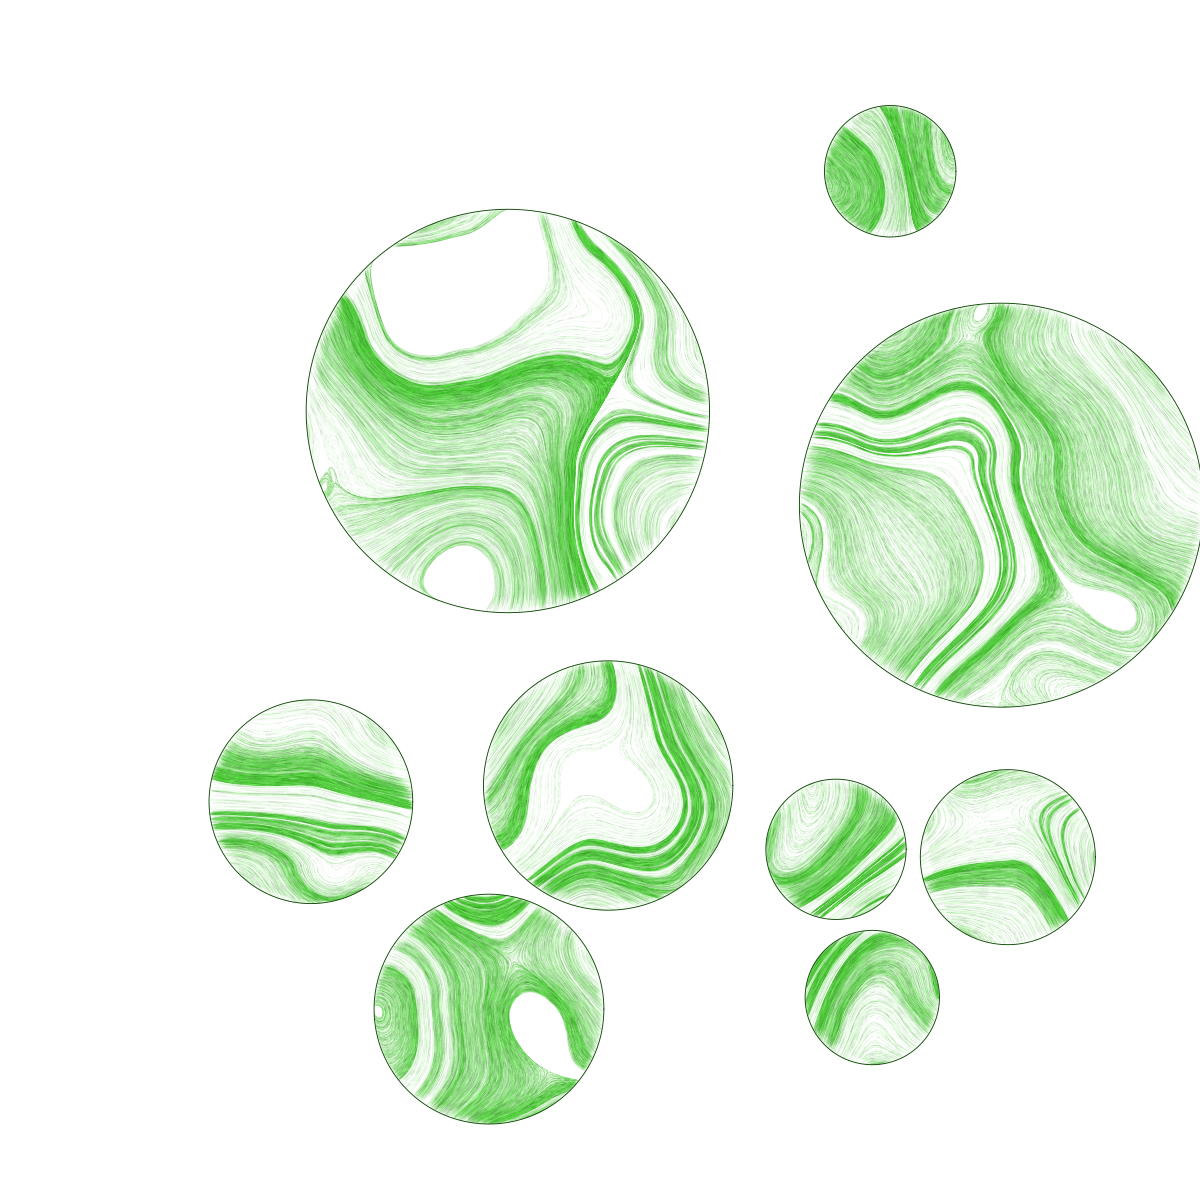
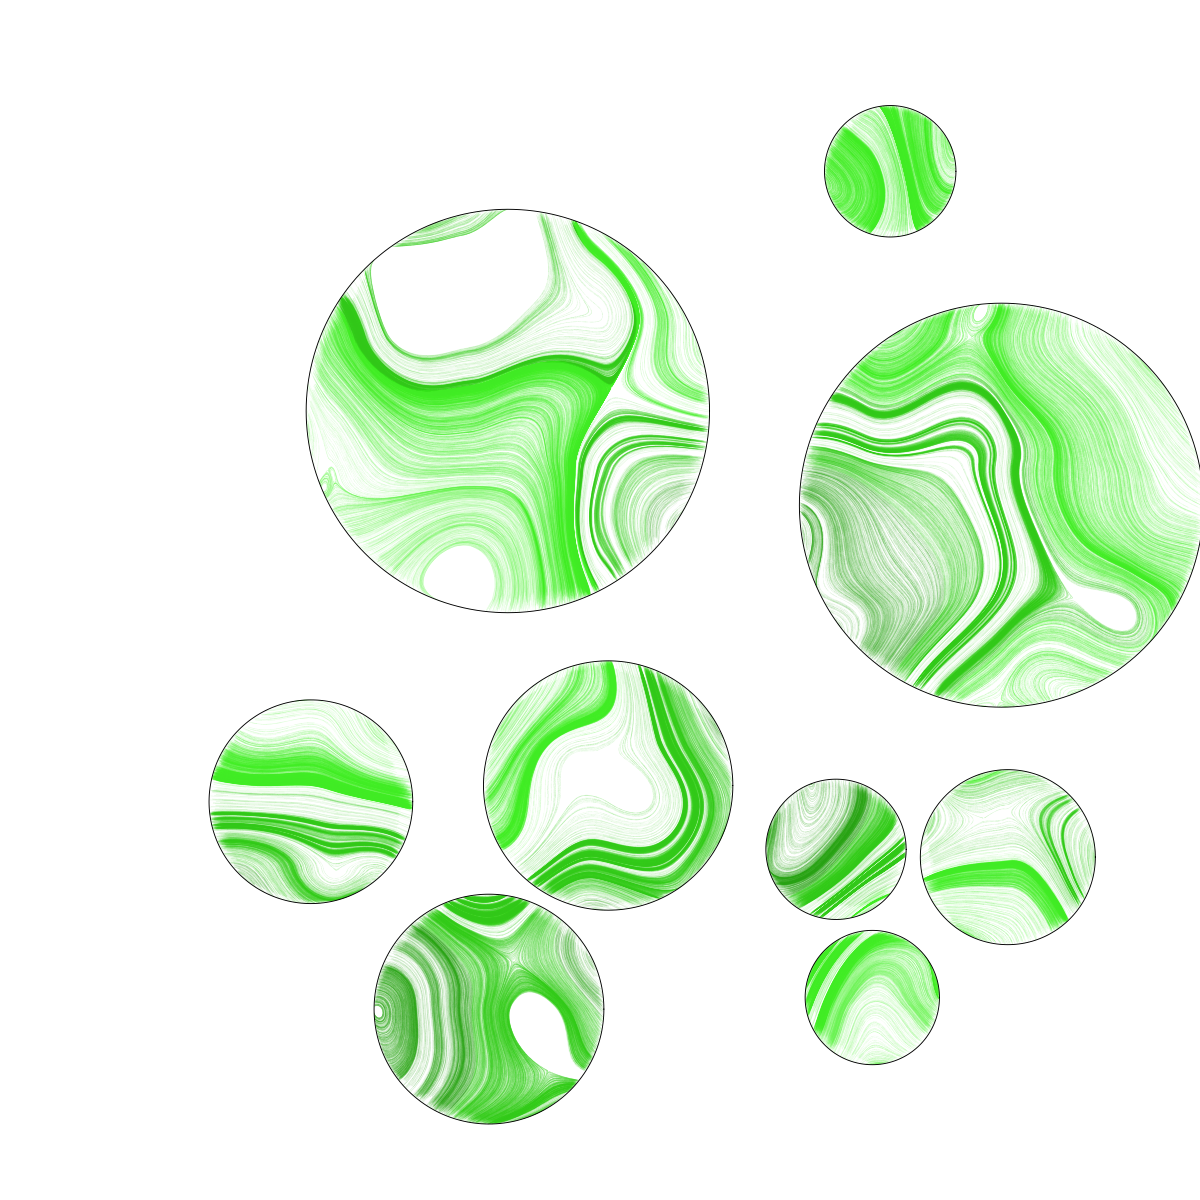
split complementary palette

diff --git a/internal/engines/perlinpearls/perlinpearls.go b/internal/engines/perlinpearls/perlinpearls.go
@@ -92,10 +92,20 @@ func (Engine) Generate(ctx context.Context, rng *rand.Rand, params map[string]fl
 				ds[i][k].x += nx * ds[i][k].step
 				ds[i][k].y += ny * ds[i][k].step
 
-				// pick color from palette
+				// inside the stroke drawing loop
+				// pick color based on noise value at current position
 				var c core.RGBA
 				if len(colors) > 0 {
-					c = colors[rng.Intn(len(colors))]
+					nval := noiseField.At(ds[i][k].x*factor, ds[i][k].y*factor) // -1..1
+					t := (nval + 1) / 2                                         // normalize 0..1
+					idx := int(t * float64(len(colors)-1))
+					if idx < 0 {
+						idx = 0
+					}
+					if idx >= len(colors) {
+						idx = len(colors) - 1
+					}
+					c = colors[idx]
 				} else {
 					c = core.RGBA{0, 0, 0, 1}
 				}
@@ -114,7 +124,7 @@ func (Engine) Generate(ctx context.Context, rng *rand.Rand, params map[string]fl
 			}
 		}
 
-		// --- Draw circle outline after inner strokes ---
+		// --- Circle outline (always black now) ---
 		segments := 200
 		outlinePoints := make([]core.Vec2, 0, segments+1)
 		for s := 0; s <= segments; s++ {
@@ -124,14 +134,7 @@ func (Engine) Generate(ctx context.Context, rng *rand.Rand, params map[string]fl
 			outlinePoints = append(outlinePoints, core.Vec2{X: x, Y: y})
 		}
 
-		// choose outline color (black if no palette provided)
-		var outlineColor core.RGBA
-		if len(colors) > 0 {
-			outlineColor = colors[0] // consistent outline color
-		} else {
-			outlineColor = core.RGBA{0, 0, 0, 1}
-		}
-
+		outlineColor := core.RGBA{R: 0, G: 0, B: 0, A: 1} // black outline
 		scene.AddStroke(outlinePoints, true, outlineWidth, outlineColor, 1.0)
 	}
 

diff --git a/internal/palette/splitcomplementary.go b/internal/palette/splitcomplementary.go
@@ -1,0 +1,37 @@
+package palette
+
+import (
+	"math"
+
+	"genart/internal/core"
+)
+
+// SplitComplementary generates a vivid split-complementary palette.
+func SplitComplementary(base core.RGBA, n int) []core.RGBA {
+	if n < 3 {
+		n = 3
+	}
+
+	h, s, _ := RGBToHSL(base.R, base.G, base.B)
+	colors := make([]core.RGBA, n)
+
+	// main hue + split complementary (±30° from opposite)
+	hues := []float64{
+		h,
+		math.Mod(h+0.5-1.0/12.0, 1.0),
+		math.Mod(h+0.5+1.0/12.0, 1.0),
+	}
+
+	for i := 0; i < n; i++ {
+		hue := hues[i%3]
+
+		// push saturation high, keep lightness around mid
+		saturation := clamp(s*0.9+(float64(i)/float64(n-1))*0.1, 0.6, 1.0)
+		lightness := clamp(0.4+(float64(i)/float64(n-1))*0.3, 0, 1)
+
+		r, g, b := HSLToRGB(hue, saturation, lightness)
+		colors[i] = core.RGBA{R: r, G: g, B: b, A: 1}
+	}
+
+	return colors
+}

diff --git a/cmd/genart/main.go b/cmd/genart/main.go
@@ -55,6 +55,8 @@ func main() {
 	switch cfg.Palette.Type {
 	case "mono":
 		colors = palette.Monochrome(cfg.Palette.Base, cfg.Palette.N)
+	case "split-complementary":
+		colors = palette.SplitComplementary(cfg.Palette.Base, cfg.Palette.N)
 	default:
 		exitErr(fmt.Sprintf("unknown palette type %q", cfg.Palette.Type))
 	}
